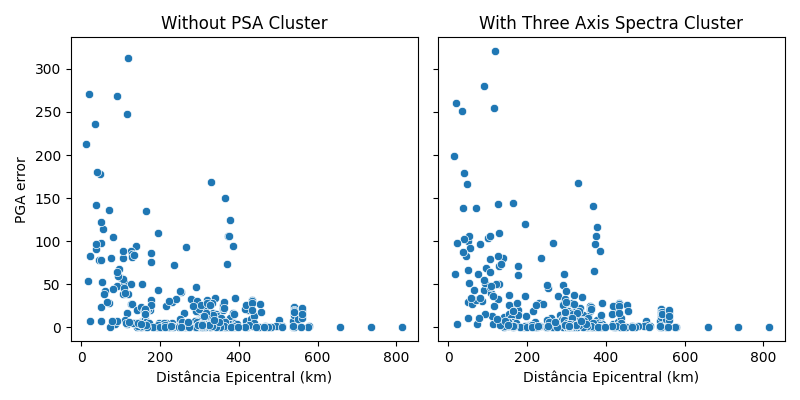
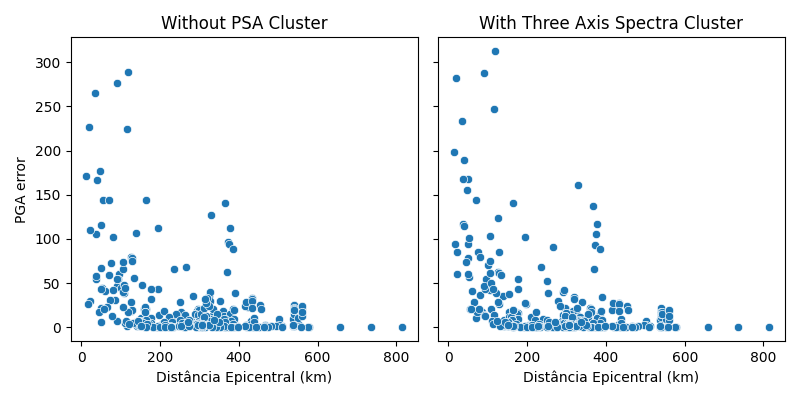
feat: update XGBoost and Random Forest tuning results; enhance hyperparameter configurations and improve model performance metrics

diff --git a/modeling.py b/modeling.py
@@ -119,10 +119,11 @@ def build_random_forest(preprocessor: ColumnTransformer, n_estimators: int,
     ])
 
 def build_xgboost(preprocessor: ColumnTransformer, n_estimators: int, 
-                  learning_rate: float, max_depth: int, 
-                  subsample: float, colsample_bytree: float, 
-                  min_child_weight: int, gamma: float, 
-                  reg_alpha: float, reg_lambda: float) -> Pipeline:
+                  learning_rate: float = 0.05, max_depth: int = 6, 
+                  subsample: float = 0.8, colsample_bytree: float = 0.8, 
+                  min_child_weight: int = 1, gamma: float = 0.0, 
+                  reg_alpha: float = 1.0, reg_lambda: float = 1.0,
+                  **kwargs) -> Pipeline:
     """Constrói a pipeline para XGBoost usando os melhores hiperparâmetros originais."""
     return Pipeline([
         ('preprocessor', preprocessor),
@@ -180,7 +181,7 @@ def tune_random_forest(X_train: pd.DataFrame, y_train: pd.Series, groups: pd.Ser
     def objective(trial):
         param = {
             'n_estimators': trial.suggest_int('n_estimators', 100, 2000),
-            'max_depth': trial.suggest_int('max_depth', 3, 30),
+            'max_depth': trial.suggest_int('max_depth', 3, 50),
             'min_samples_split': trial.suggest_int('min_samples_split', 2, 20),
             'min_samples_leaf': trial.suggest_int('min_samples_leaf', 1, 20),
             'max_features': trial.suggest_float('max_features', 0.1, 1.0),
@@ -220,21 +221,23 @@ def tune_xgboost(X_train: pd.DataFrame, y_train: pd.Series, groups: pd.Series,
     def objective(trial):
         param = {
             'objective': 'reg:squarederror',
-            'n_estimators': trial.suggest_int('n_estimators', 100, 2100),
-            'learning_rate': trial.suggest_float('learning_rate',  1e-4, 0.05, log=True), # Amarrado para evitar overfit com muitas árvores
-            'max_depth': trial.suggest_int('max_depth', 2, 10), # Árvores rasas extrapolam de forma menos agressiva
-            'subsample': trial.suggest_float('subsample', 0.1, 1.0),
-            'colsample_bytree': trial.suggest_float('colsample_bytree', 0.1, 1.0),
+            'n_estimators': 2000, # Fixado em um valor alto; o early_stopping decide a parada
+            'learning_rate': trial.suggest_float('learning_rate',  1e-3, 0.3, log=True), # Força um aprendizado mais lento (mais árvores)
+            'max_depth': trial.suggest_int('max_depth', 3, 15), # Limita a profundidade para evitar overfit nas folhas
+            'subsample': trial.suggest_float('subsample', 0.5, 1.0),
+            'colsample_bytree': trial.suggest_float('colsample_bytree', 0.5, 1.0),
             'min_child_weight': trial.suggest_int('min_child_weight', 0, 25),
-            'gamma': trial.suggest_float('gamma', 0.1, 5.0, log=True), # Força divisões mais significativas
-            'reg_alpha': trial.suggest_float('reg_alpha', 1.0, 1e2, log=True), # Regularização L1 mais severa (piso em 1.0)
-            'reg_lambda': trial.suggest_float('reg_lambda', 1.0, 1e2, log=True), # Regularização L2 mais severa (piso em 1.0)
+            'gamma': trial.suggest_float('gamma', 1e-8, 1.0, log=True),
+            'reg_alpha': trial.suggest_float('reg_alpha', 1e-3, 10.0, log=True),
+            'reg_lambda': trial.suggest_float('reg_lambda', 1e-3, 10.0, log=True),
+            'early_stopping_rounds': 50,
             'random_state': random_state,
             'n_jobs': -1,
         }
 
         gkf = GroupKFold(n_splits=5)
         rmses = []
+        best_iterations = []
         
         # Loop manual para avaliar o erro no espaço exponencial e usar Pruning (Optuna)
         for step, (train_idx, val_idx) in enumerate(gkf.split(X_train, y_train, groups=groups)):
@@ -250,17 +253,29 @@ def tune_xgboost(X_train: pd.DataFrame, y_train: pd.Series, groups: pd.Series,
             y_val_fold_log = np.log(y_val_fold)
             
             model = xgb.XGBRegressor(**param)
-            model.fit(X_train_processed, y_train_fold_log)
+            
+            # Treinamento com Early Stopping (Validação acompanhando cada fold)
+            model.fit(
+                X_train_processed, y_train_fold_log,
+                eval_set=[(X_val_processed, y_val_fold_log)],
+                verbose=False
+            )
             
             # Calcula o RMSE no espaço original (após inverter o log com np.exp)
             preds = np.exp(model.predict(X_val_processed))
             rmses.append(root_mean_squared_error(y_val_fold, preds))
+            best_iterations.append(model.best_iteration)
             
             # Reporta a média atual para o Optuna; aborta a Trial se for ruim demais
             trial.report(-np.mean(rmses), step=step)
             if trial.should_prune():
                 raise optuna.TrialPruned()
                 
+        # Registra a média do melhor número de árvores dessa trial.
+        # Adicionamos 10% a mais (multiplicando por 1.1) porque no main.py 
+        # o modelo final vai treinar com 100% dos dados (e não apenas os 80% do fold).
+        # Logo, ele precisa de ligeiramente mais árvores para convergir.
+        trial.set_user_attr("optimal_trees", int(np.mean(best_iterations) * 1.1))
         return -np.mean(rmses)
 
     # Adiciona Sampler determinístico e Pruner (ignora as primeiras 5 trials do estudo antes de começar a podar)
@@ -270,7 +285,15 @@ def tune_xgboost(X_train: pd.DataFrame, y_train: pd.Series, groups: pd.Series,
     study = optuna.create_study(direction='maximize', sampler=sampler, pruner=pruner)
     study.optimize(objective, n_trials=n_trials)
     
-    return study
+    # Envolvemos o Study para sobrescrever e injetar o n_estimators dinâmico ótimo
+    # Assim o run_tuning.py salva o arquivo JSON corretamente sem precisar ser modificado.
+    class StudyWrapper:
+        def __init__(self, study):
+            self.best_value = study.best_value
+            self.best_params = study.best_params.copy()
+            self.best_params['n_estimators'] = study.best_trial.user_attrs.get("optimal_trees", 500)
+            
+    return StudyWrapper(study)
 
 
 def tune_dnn(X_train, y_train, X_valid, y_valid, preprocessor: ColumnTransformer, 
